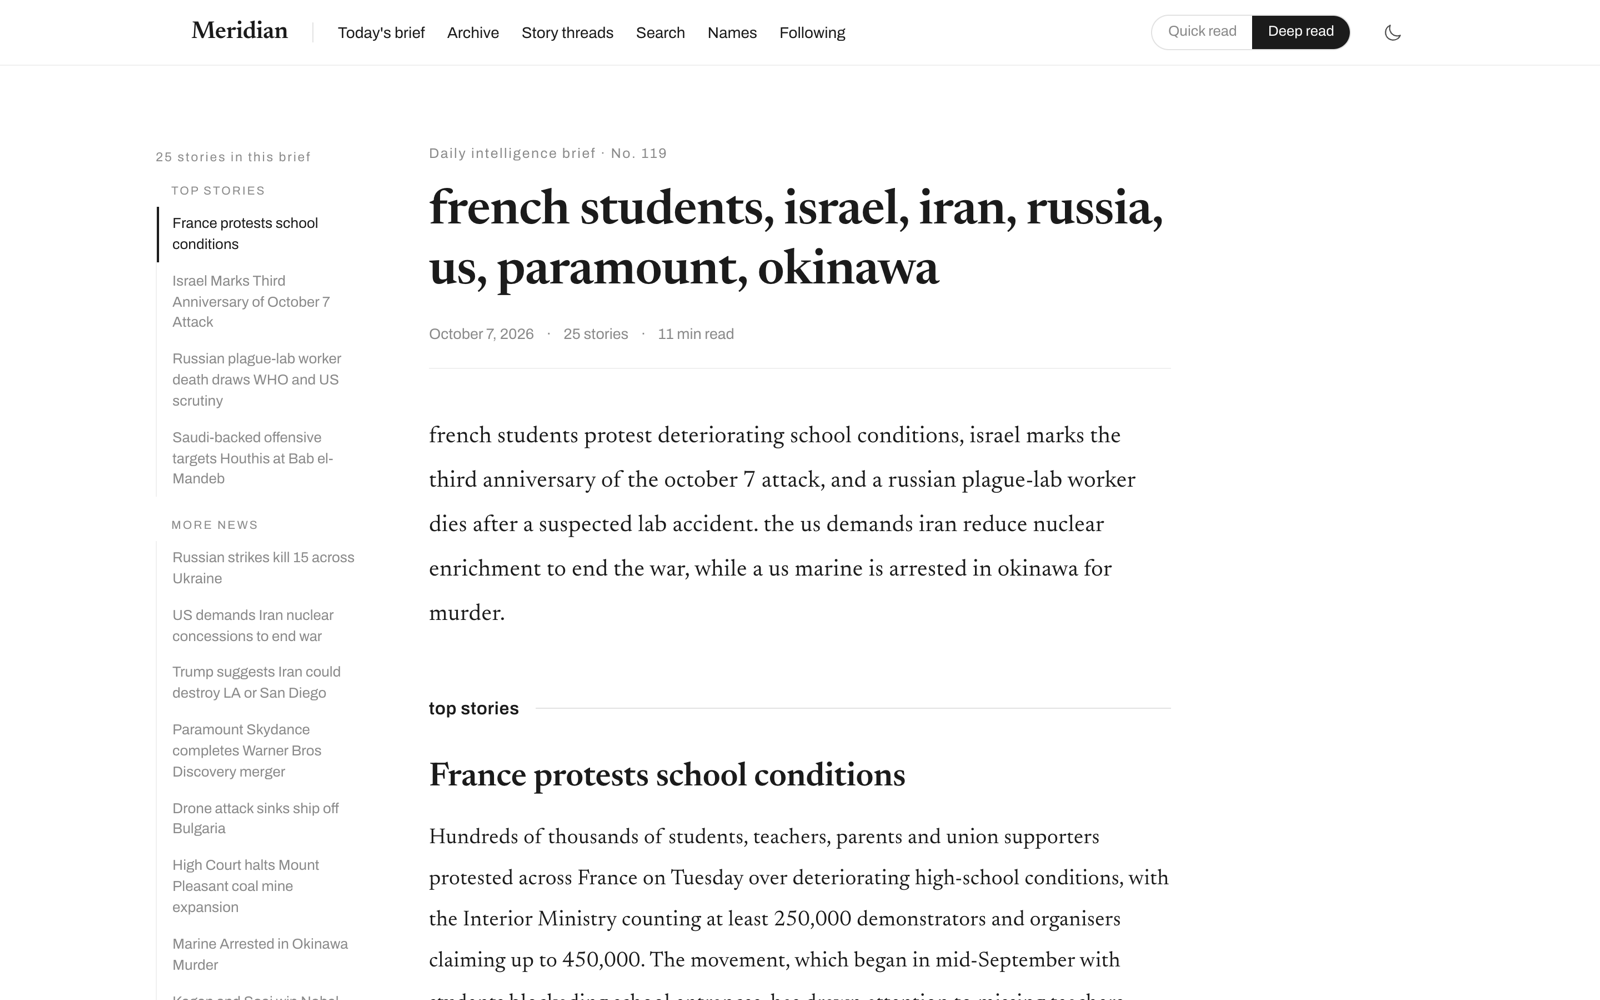
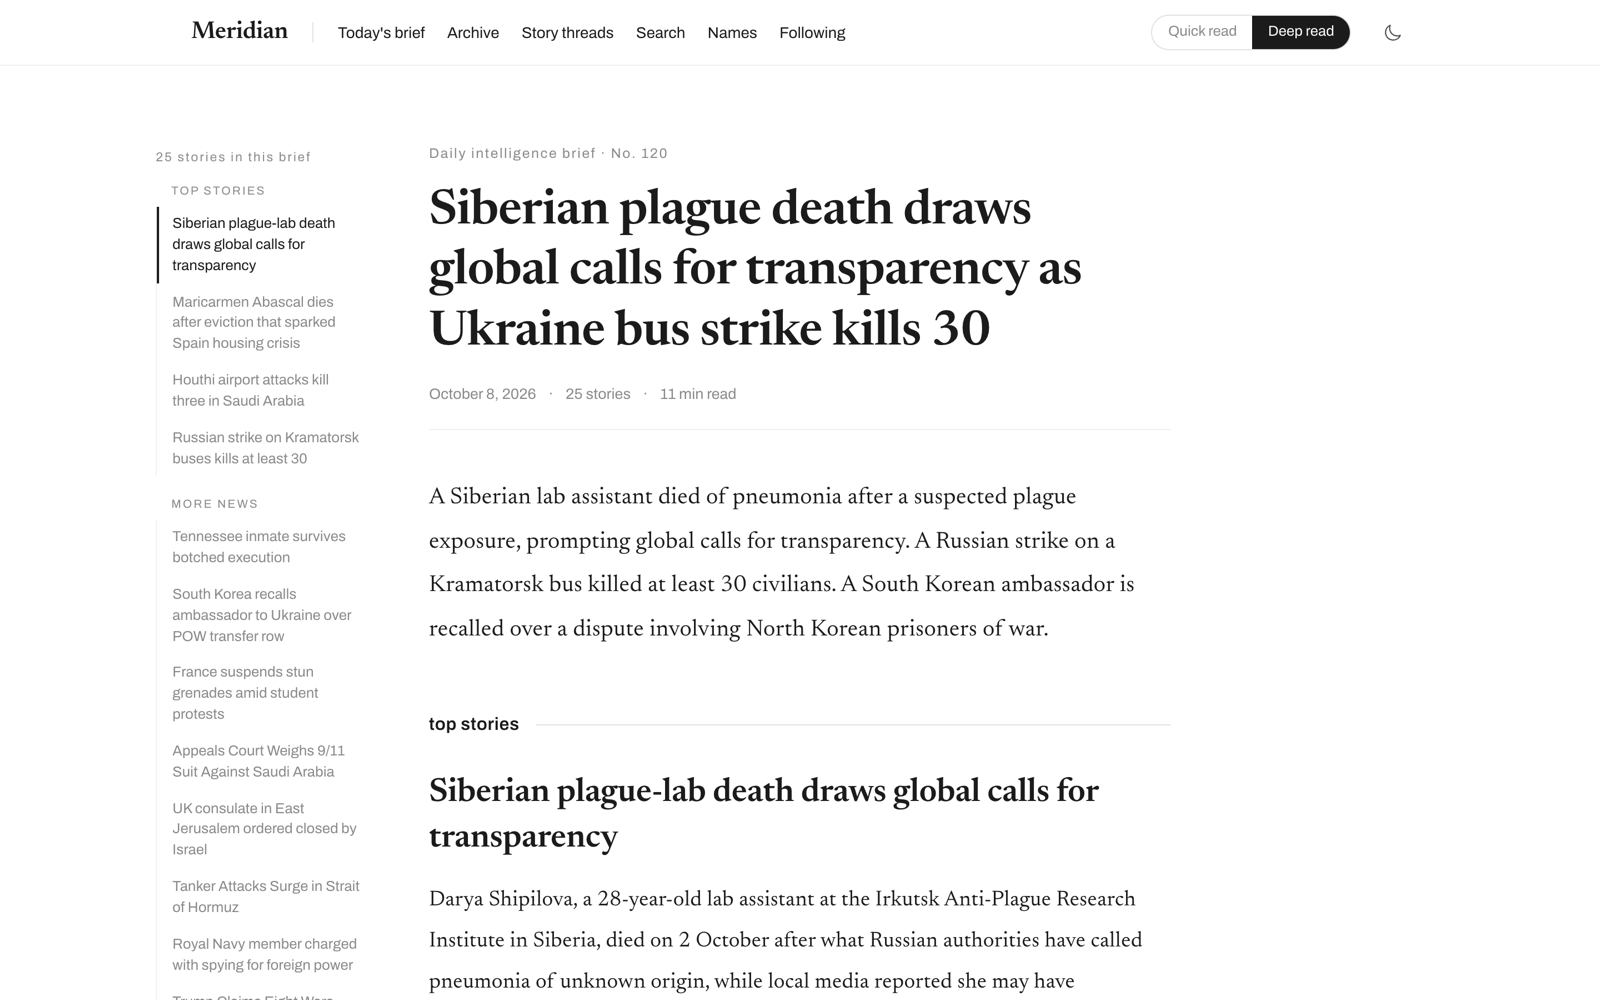
docs(readme): 换成 10-08 那期的截图（新标题写法上线后的第一期），期数更新到 48

diff --git a/README.md b/README.md
@@ -96,7 +96,7 @@ The happy path above is the small part. Most of the work is in what happens when
 - **Decisions are measured and written down.** Eleven hand-labelled test sets under [`eval/`](eval), and eighteen decision records in [`docs/adr/`](docs/adr). Each record gives the measurements and the list of approaches that were tried and dropped.
 - **Over 700 automated tests** across the four units, run before every push and in CI.
 
-As of October 2026: 14 feeds, 51,000 articles processed, 47 briefs published since August, and every scheduled run since the current pipeline went live on September 21 has completed.
+As of October 2026: 14 feeds, 51,000 articles processed, 48 briefs published since August, and every scheduled run since the current pipeline went live on September 21 has completed.
 
 ## Stack
 
